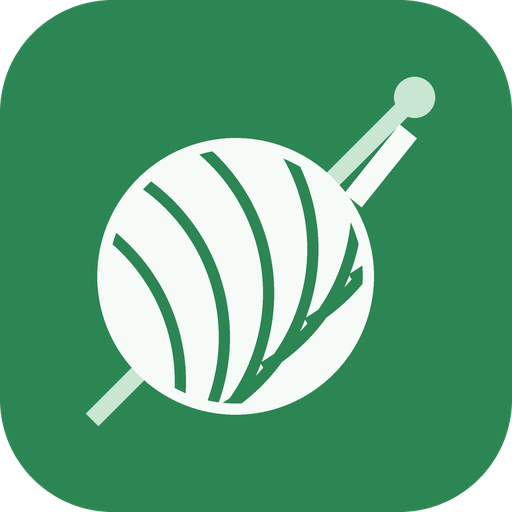
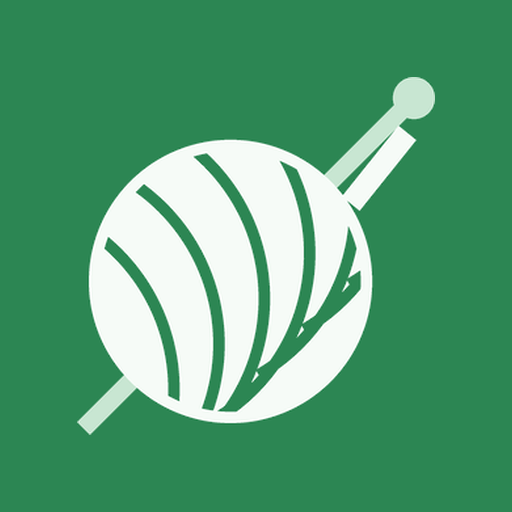
Brinde fora da hora real, pedido a partir de receita e tema escuro no app instalado
- Preço 0 é brinde: etiqueta no card e "brinde" em Sua hora. A hora real conta só
  peças vendidas e entregues e mostra a base. Brindes aparecem à parte em Dinheiro e Horas.
- Gráfico "Horas que faltam por peça" em barras HTML com texto em tamanho normal;
  clicar abre o pedido.
- "+ Da receita" (Painel, Fila e Receitas): numera sozinho (Lula 3, Lula 4...), cria
  várias de uma vez e o acessório junto (Chapéu Lula 3). Receitas ganharam tipo, horas,
  preço e "fazer junto"; pedidos ganharam o campo Receita; planilha com as colunas novas.
- Manifest com cores escuras (barras do sistema), ícones sem cantos transparentes,
  maskable dentro da zona segura e ícone monocromático novo. Cache atelie-7.

Claude-Session: https://claude.ai/code/session_01VY8BBaoGptddDZMF5C8UBs

diff --git a/app.js b/app.js
@@ -49,14 +49,15 @@ const NORM = {
   pedidos: (id, d) => ({id, nome: str(d.nome) || '(sem nome)', cliente: str(d.cliente), tipo: TIPOS.includes(d.tipo) ? d.tipo : 'Custom simples',
     status: STATUS.includes(d.status) ? d.status : 'Na fila', prazo: str(d.prazo), horasEst: num(d.horasEst, 0), preco: num(d.preco),
     sinal: num(d.sinal, 0), pago: d.pago === true, contato: str(d.contato), pedidoEm: str(d.pedidoEm), entregueEm: str(d.entregueEm),
-    ordem: num(d.ordem, 1e6), lixo: d.lixo === true}),
+    ordem: num(d.ordem, 1e6), receitaId: str(d.receitaId), lixo: d.lixo === true}),
   horas: (id, d) => ({id, data: str(d.data), pedidoId: str(d.pedidoId), horas: num(d.horas, 0), inicio: str(d.inicio), fim: str(d.fim), lixo: d.lixo === true}),
   compras: (id, d) => ({id, item: str(d.item) || '(sem nome)', tipo: TIPOS_COMPRA.includes(d.tipo) ? d.tipo : 'Outro', cor: str(d.cor),
     qtd: num(d.qtd, 1), precoUn: num(d.precoUn, 0), onde: str(d.onde), pedidoId: str(d.pedidoId), comprado: d.comprado === true,
     compradoEm: str(d.compradoEm), criadoEm: str(d.criadoEm), lixo: d.lixo === true}),
   estoque: (id, d) => ({id, cor: str(d.cor) || '(sem nome)', situacao: SIT.includes(d.situacao) ? d.situacao : 'Tem', ordem: num(d.ordem, 1e6), hex: /^#[0-9a-f]{6}$/i.test(str(d.hex)) ? str(d.hex).toLowerCase() : '', lixo: d.lixo === true}),
   receitas: (id, d) => ({id, personagem: str(d.personagem) || '(sem nome)', fonte: FONTES.includes(d.fonte) ? d.fonte : 'Própria', autor: str(d.autor),
-    altura: num(d.altura), arquivo: str(d.arquivo), lixo: d.lixo === true})
+    altura: num(d.altura), arquivo: str(d.arquivo), tipoPadrao: TIPOS.includes(d.tipoPadrao) ? d.tipoPadrao : 'Receita pronta',
+    horasPadrao: num(d.horasPadrao), precoPadrao: num(d.precoPadrao), acompanhaId: str(d.acompanhaId), lixo: d.lixo === true})
 };
 
 const vivos = k => S[k].filter(x => !x.lixo);
@@ -76,8 +77,9 @@ function calcP(p) {
   const recebido = preco == null ? p.sinal : (p.pago ? preco : p.sinal);
   const aReceber = preco == null ? null : (p.pago ? 0 : Math.max(0, preco - p.sinal));
   const lucro = preco == null ? null : preco - c;
-  const rph = (lucro != null && f > 0) ? lucro / f : null;
-  return {f, fechado, c, restam, sug, recebido, aReceber, lucro, rph, dias: diasAte(p.prazo), pct: p.horasEst > 0 ? Math.min(1, f / p.horasEst) : 0};
+  const brinde = preco === 0;
+  const rph = (lucro != null && f > 0 && !brinde) ? lucro / f : null;
+  return {f, fechado, c, restam, sug, recebido, aReceber, lucro, rph, brinde, dias: diasAte(p.prazo), pct: p.horasEst > 0 ? Math.min(1, f / p.horasEst) : 0};
 }
 function kpis() {
   const todos = vivos('pedidos'), at = ativosOrd(), cf = C();
@@ -95,14 +97,16 @@ function kpis() {
   const saldo = recebido - gastos;
   const hs = vivos('horas');
   const seg = new Date(); seg.setDate(seg.getDate() - ((seg.getDay() + 6) % 7)); const segIso = isoDia(seg);
-  const ent = todos.filter(p => p.status === 'Entregue');
+  const ent = todos.filter(p => p.status === 'Entregue' && p.preco > 0);
   const hEnt = ent.reduce((a, p) => a + calc.get(p.id).f, 0), lEnt = ent.reduce((a, p) => a + (calc.get(p.id).lucro || 0), 0);
+  const brs = naoCanc.filter(p => calc.get(p.id).brinde);
   return {abertos: abertos.length, horasFila: at.reduce((a, p) => a + calc.get(p.id).restam, 0), proxima: abertos[0] ? abertos[0].nome : 'Nada na fila',
     prazo: prazos[0] ? fData(prazos[0]) : 'Nenhum marcado', atrasadas, fat, recebido, gastos, saldo, pend, lucro, aReceber,
     meta: cf.metaNatal, jaTenho: cf.metaNatal ? Math.min(1, Math.max(0, saldo) / cf.metaNatal) : null,
     seFila: cf.metaNatal ? Math.min(1, Math.max(0, saldo + aReceber) / cf.metaNatal) : null,
     hTotal: hs.reduce((a, h) => a + h.horas, 0), hSemana: hs.filter(h => h.data >= segIso).reduce((a, h) => a + h.horas, 0),
-    horaReal: hEnt > 0 ? lEnt / hEnt : null};
+    horaReal: hEnt > 0 ? lEnt / hEnt : null, vendidas: ent.length, hVendidas: hEnt,
+    brindes: brs.length, custoBrindes: brs.reduce((a, p) => a + calc.get(p.id).c, 0), hBrindes: brs.reduce((a, p) => a + calc.get(p.id).f, 0)};
 }
 
 const ref = (c, id) => doc(S.fs, 'users', S.user.uid, c, id);
@@ -154,6 +158,7 @@ function formPedido(id) {
     ${campo('contato', 'Contato', inp('contato', p?.contato, 'autocomplete="off"'))}
     ${campo('tipo', 'Tipo', sel('tipo', TIPOS, p?.tipo || 'Custom simples'))}
     ${campo('status', 'Status', sel('status', STATUS, p?.status || 'Na fila'))}
+    ${campo('receitaId', 'Receita', selReceita('receitaId', p?.receitaId, 'Nenhuma'), 'full')}
     ${campo('horasEst', 'Horas estimadas', numInp('horasEst', p?.horasEst || ''))}
     ${campo('prazo', 'Prazo', inp('prazo', p?.prazo, 'type="date"'))}
     <div class="sugbox full" id="sugbox"></div>
@@ -178,7 +183,7 @@ function formPedido(id) {
       if (!d.nome.trim()) { erroModal('Dá um nome pra peça.'); return false; }
       const patch = {nome: d.nome.trim(), cliente: d.cliente.trim(), contato: d.contato.trim(), tipo: d.tipo, status: d.status,
         horasEst: num(d.horasEst, 0), prazo: d.prazo, preco: num(d.preco), sinal: num(d.sinal, 0), pago: d.pago,
-        pedidoEm: d.pedidoEm, entregueEm: d.entregueEm || (d.status === 'Entregue' ? hoje() : '')};
+        pedidoEm: d.pedidoEm, entregueEm: d.entregueEm || (d.status === 'Entregue' ? hoje() : ''), receitaId: d.receitaId || ''};
       if (novo) { patch.ordem = ordemPara(d.prio); patch.lixo = false; criar('pedidos', patch, 'Pedido adicionado'); }
       else mudar('pedidos', p.id, patch, 'Pedido salvo');
     }});
@@ -189,6 +194,93 @@ function ordemPara(v) {
   const i = at.findIndex(p => p.id === v);
   if (i < 0) return at[at.length - 1].ordem + 1;
   return at[i + 1] ? (at[i].ordem + at[i + 1].ordem) / 2 : at[i].ordem + 1;
+}
+function ordensPara(v, k) {
+  const at = ativosOrd(); if (!at.length) return Array.from({length: k}, (_, j) => j + 1);
+  let a, b; const i = at.findIndex(p => p.id === v);
+  if (v === 'topo') { b = at[0].ordem; a = b - 1; }
+  else if (i < 0) { a = at[at.length - 1].ordem; b = a + k + 1; }
+  else { a = at[i].ordem; b = at[i + 1] ? at[i + 1].ordem : a + k + 1; }
+  const st = (b - a) / (k + 1); return Array.from({length: k}, (_, j) => a + st * (j + 1));
+}
+
+const escRe = v => v.replace(/[.*+?^${}()|[\]\\]/g, '\\$&');
+const rec = id => id ? S.receitas.find(r => r.id === id && !r.lixo) : null;
+const recsOrd = () => vivos('receitas').sort((a, b) => a.personagem.localeCompare(b.personagem));
+const reNome = r => new RegExp('^' + escRe(semAcento(r.personagem)) + '\\s*(#)?\\s*(\\d+)$');
+const nomeNum = (r, n, hash) => r.personagem + (hash ? ' #' : ' ') + n;
+const daReceita = r => { const re = reNome(r); return vivos('pedidos').filter(p => p.receitaId === r.id || re.test(semAcento(p.nome))); };
+function proxNum(r) {
+  const re = reNome(r); let mx = 0, hash = false;
+  for (const p of vivos('pedidos')) { const m = re.exec(semAcento(p.nome)); if (m) { mx = Math.max(mx, +m[2]); if (m[1]) hash = true; } }
+  return {n: mx + 1, hash};
+}
+function statsReceita(r) {
+  const ps = daReceita(r), prontos = ps.filter(p => ['Pronto', 'Entregue'].includes(p.status) && feitas(p) > 0);
+  const media = prontos.length ? prontos.reduce((a, p) => a + feitas(p), 0) / prontos.length : null;
+  const comPreco = ps.filter(p => p.preco != null).sort((a, b) => (b.pedidoEm || '').localeCompare(a.pedidoEm || '') || b.ordem - a.ordem);
+  const ultEst = ps.filter(p => p.horasEst > 0).sort((a, b) => (b.pedidoEm || '').localeCompare(a.pedidoEm || ''))[0];
+  return {total: ps.length, prontos: prontos.length, media, ultPreco: comPreco[0] ? comPreco[0].preco : null,
+    horas: r.horasPadrao ?? (media != null ? Math.round(media * 10) / 10 : (ultEst ? ultEst.horasEst : null)),
+    preco: r.precoPadrao ?? (comPreco[0] ? comPreco[0].preco : null)};
+}
+function selReceita(id, v, vazio) {
+  return `<select id="${id}" name="${id}">${vazio ? `<option value="">${esc(vazio)}</option>` : ''}${recsOrd().map(r => `<option value="${esc(r.id)}"${r.id === v ? ' selected' : ''}>${esc(r.personagem)}</option>`).join('')}</select>`;
+}
+function planoReceita(r, q, junto) {
+  const {n, hash} = proxNum(r), ac = junto && r.acompanhaId ? rec(r.acompanhaId) : null;
+  const usados = new Set(vivos('pedidos').map(p => semAcento(p.nome)));
+  const acP = ac ? proxNum(ac) : null, out = [];
+  for (let j = 0; j < q; j++) {
+    out.push({r, nome: nomeNum(r, n + j, hash), principal: true});
+    if (ac) {
+      let nm = nomeNum(ac, n + j, acP.hash || hash);
+      if (usados.has(semAcento(nm))) { nm = nomeNum(ac, acP.n, acP.hash || hash); acP.n++; }
+      usados.add(semAcento(nm)); out.push({r: ac, nome: nm, principal: false});
+    }
+  }
+  return out;
+}
+function formDaReceita(rid) {
+  const rs = recsOrd();
+  if (!rs.length) { toast('Cria a receita primeiro (aba Receitas, + Receita).', true); location.hash = 'receitas'; return; }
+  const r0 = rec(rid) || rs[0], st0 = statsReceita(r0), at = ativosOrd();
+  const corpo = `<div class="fgrid">
+    ${campo('rec', 'Receita', selReceita('rec', r0.id), 'full')}
+    <div class="sugbox full" id="recprev"></div>
+    ${campo('qtd', 'Quantas', numInp('qtd', 1, 'min="1" max="50" step="1" inputmode="numeric"'))}
+    ${campo('tipo', 'Tipo', sel('tipo', TIPOS, r0.tipoPadrao))}
+    <label class="chk full" id="juntoBox"><input type="checkbox" name="junto" checked> <span id="juntoTxt"></span></label>
+    ${campo('cliente', 'Cliente', inp('cliente', '', 'autocomplete="off" placeholder="vazio = pronta entrega"'))}
+    ${campo('contato', 'Contato', inp('contato', '', 'autocomplete="off"'))}
+    ${campo('horasEst', 'Horas estimadas (cada)', numInp('horasEst', st0.horas ?? ''))}
+    ${campo('prazo', 'Prazo', inp('prazo', '', 'type="date"'))}
+    ${campo('preco', 'Preço (cada, R$)', numInp('preco', st0.preco ?? ''))}
+    ${campo('sinal', 'Sinal recebido (cada, R$)', numInp('sinal', ''))}
+    ${campo('prio', 'Posição na fila', `<select id="prio" name="prio"><option value="fim">No fim da fila</option><option value="topo">No topo (prioridade máxima)</option>${at.map(a => `<option value="${esc(a.id)}">Depois de: ${esc(a.nome)}</option>`).join('')}</select>`, 'full')}
+  </div>`;
+  let ultRec = r0.id;
+  abrirModal('Novo pedido de receita', corpo, {salvarTxt: 'Adicionar na fila',
+    onInput: f => {
+      const r = rec(f.rec.value); if (!r) return;
+      if (r.id !== ultRec) { ultRec = r.id; const st = statsReceita(r); f.horasEst.value = st.horas ?? ''; f.preco.value = st.preco ?? ''; f.tipo.value = r.tipoPadrao; f.junto.checked = true; }
+      const ac = r.acompanhaId ? rec(r.acompanhaId) : null;
+      $('#juntoBox').hidden = !ac; $('#juntoTxt').textContent = ac ? `Fazer junto: ${ac.personagem} (mesmo número, ${ac.precoPadrao != null ? fR(ac.precoPadrao) : 'preço a definir'})` : '';
+      const q = Math.max(1, Math.min(50, Math.round(num(f.qtd.value, 1)))), plano = planoReceita(r, q, f.junto.checked);
+      const st = statsReceita(r);
+      const info = st.prontos ? `média de ${fH(st.media)} nas ${st.prontos} ${plural(st.prontos, 'já feita', 'já feitas')}` : (st.total ? `${st.total} ${plural(st.total, 'pedido', 'pedidos')} dessa receita até agora` : 'primeira dessa receita');
+      $('#recprev').innerHTML = `Vai criar: <b>${plano.map(x => esc(x.nome)).join(', ')}</b><br><span class="muted small">${info}</span>`;
+    },
+    onOk: d => {
+      const r = rec(d.rec); if (!r) { erroModal('Escolhe a receita.'); return false; }
+      const q = Math.round(num(d.qtd, 1)); if (!(q >= 1 && q <= 50)) { erroModal('Quantidade entre 1 e 50.'); return false; }
+      const plano = planoReceita(r, q, d.junto && !!r.acompanhaId), ords = ordensPara(d.prio, plano.length), base = {cliente: d.cliente.trim(), contato: d.contato.trim(), prazo: d.prazo, status: 'Na fila', pago: false, pedidoEm: hoje(), entregueEm: '', lixo: false};
+      plano.forEach((x, j) => {
+        const st = x.principal ? null : statsReceita(x.r);
+        const it = x.principal ? {tipo: d.tipo, horasEst: num(d.horasEst, 0), preco: num(d.preco), sinal: num(d.sinal, 0)} : {tipo: x.r.tipoPadrao, horasEst: st.horas || 0, preco: st.preco, sinal: 0};
+        criar('pedidos', {...base, ...it, nome: x.nome, receitaId: x.r.id, ordem: ords[j]}, j === plano.length - 1 ? (plano.length === 1 ? `${x.nome} na fila` : `${plano.length} peças na fila`) : '');
+      });
+    }});
 }
 function formHoras(pid, hid) {
   const h = hid ? S.horas.find(x => x.id === hid) : null;
@@ -280,11 +372,17 @@ function formReceita(rid) {
   const r = rid ? S.receitas.find(x => x.id === rid) : null;
   const corpo = `<div class="fgrid">${campo('personagem', 'Personagem', inp('personagem', r?.personagem, 'required autocomplete="off"'), 'full')}
     ${campo('fonte', 'Fonte', sel('fonte', FONTES, r?.fonte || 'Própria'))}${campo('autor', 'Autor', inp('autor', r?.autor ?? 'Você'))}
-    ${campo('altura', 'Altura (cm)', numInp('altura', r?.altura))}${campo('arquivo', 'Arquivo ou link', inp('arquivo', r?.arquivo))}</div>`;
+    ${campo('altura', 'Altura (cm)', numInp('altura', r?.altura))}${campo('arquivo', 'Arquivo ou link', inp('arquivo', r?.arquivo))}
+    <p class="hint full">Pro botão <b>+ Da receita</b>: ele numera sozinho (Lula 1, Lula 2...) e preenche com o que estiver abaixo. Vazio = usa a média das peças já feitas.</p>
+    ${campo('tipoPadrao', 'Tipo', sel('tipoPadrao', TIPOS, r?.tipoPadrao || 'Receita pronta'))}
+    ${campo('horasPadrao', 'Horas por peça', numInp('horasPadrao', r?.horasPadrao, r ? `placeholder="${(() => { const st = statsReceita(r); return st.media != null ? 'média: ' + fN(st.media) : ''; })()}"` : ''))}
+    ${campo('precoPadrao', 'Preço (R$)', numInp('precoPadrao', r?.precoPadrao, 'placeholder="0 = brinde"'))}
+    ${campo('acompanhaId', 'Fazer junto (acessório)', `<select id="acompanhaId" name="acompanhaId"><option value="">Nada</option>${recsOrd().filter(x => !r || x.id !== r.id).map(x => `<option value="${esc(x.id)}"${r && x.id === r.acompanhaId ? ' selected' : ''}>${esc(x.personagem)}</option>`).join('')}</select>`)}</div>`;
   const extra = r ? `<button type="button" class="btn bad" data-a="excluir" data-col="receitas" data-id="${esc(r.id)}">Excluir</button>` : '';
   abrirModal(r ? 'Editar receita' : 'Nova receita', corpo, {extra, onOk: d => {
     if (!d.personagem.trim()) { erroModal('Diz o personagem.'); return false; }
-    const patch = {personagem: d.personagem.trim(), fonte: d.fonte, autor: d.autor.trim(), altura: num(d.altura), arquivo: d.arquivo.trim()};
+    const patch = {personagem: d.personagem.trim(), fonte: d.fonte, autor: d.autor.trim(), altura: num(d.altura), arquivo: d.arquivo.trim(),
+      tipoPadrao: d.tipoPadrao, horasPadrao: num(d.horasPadrao), precoPadrao: num(d.precoPadrao), acompanhaId: d.acompanhaId || ''};
     if (r) mudar('receitas', r.id, patch, 'Receita salva'); else { patch.lixo = false; criar('receitas', patch, 'Receita adicionada'); }
   }});
 }
@@ -373,28 +471,28 @@ function vTimer() {
 function kv(linhas) { return `<dl class="kv">${linhas.map(([k, v, c]) => `<dt>${k}</dt><dd class="${c || ''}">${v}</dd>`).join('')}</dl>`; }
 function barra(frac, rot) { return `<div class="meta-bar"><div class="head small"><span>${rot}</span><span class="sp"></span><b>${frac == null ? '–' : fP(frac)}</b></div><div class="bar"><i style="width:${Math.round((frac || 0) * 100)}%"></i></div></div>`; }
 function grafico() {
-  const rows = ativosOrd().map(p => ({n: p.nome, v: calcP(p).restam})).filter(r => r.v > 0).sort((a, b) => b.v - a.v);
+  const rows = ativosOrd().map(p => ({id: p.id, n: p.nome, v: calcP(p).restam})).filter(r => r.v > 0).sort((a, b) => b.v - a.v);
   if (!rows.length) return '<p class="muted">Nada pra fazer na fila.</p>';
-  const W = 560, rh = 34, lab = 180, top = 4, H = top + rows.length * rh + 4, max = Math.max(...rows.map(r => r.v)), bw = W - lab - 64;
-  let s = `<svg viewBox="0 0 ${W} ${H}" class="chart" role="img" aria-label="Horas que faltam por peça">`;
-  rows.forEach((r, i) => { const y = top + i * rh, w = Math.max(4, bw * r.v / max), nm = r.n.length > 24 ? r.n.slice(0, 23) + '…' : r.n;
-    s += `<text x="${lab - 10}" y="${y + 22}" text-anchor="end" class="c-lab">${esc(nm)}</text><rect x="${lab}" y="${y + 8}" width="${w}" height="20" rx="4" class="c-bar"/><text x="${lab + w + 8}" y="${y + 22}" class="c-val">${esc(fH(r.v))}</text>`; });
-  return s + '</svg>';
+  const max = Math.max(...rows.map(r => r.v)), tot = rows.reduce((a, r) => a + r.v, 0);
+  return `<div class="hbars">${rows.map(r => `<div class="hb" data-a="editPedido" data-id="${esc(r.id)}" title="${esc(r.n)}: faltam ${esc(fH(r.v))}"><span class="hb-n">${esc(r.n)}</span><span class="hb-t"><i style="width:${Math.max(3, Math.round(r.v / max * 100))}%"></i></span><b class="hb-v">${esc(fH(r.v))}</b></div>`).join('')}</div>
+    <p class="small muted hb-tot">${rows.length} ${plural(rows.length, 'peça', 'peças')} · ${fH(tot)} no total</p>`;
 }
 function vPainel() {
   const k = kpis();
   return `<section class="acoes" aria-label="Atalhos">
     <button class="acao pri" data-a="nav" data-v="timer">Timer<span>${rodando() ? 'rodando em ' + esc(nomePed(S.timer.pedidoId)) : 'escolhe a peça e aperta'}</span></button>
     <button class="acao" data-a="novoPedido">+ Pedido<span>entra na fila</span></button>
+    <button class="acao" data-a="pedidoReceita">+ Da receita<span>numera sozinho</span></button>
     <button class="acao" data-a="novaCompra">+ Compra<span>ou gasto</span></button>
     <button class="acao" data-a="nav" data-v="estoque">Estoque<span>${vivos('estoque').filter(e => ['Pouco', 'Acabou'].includes(e.situacao)).length} cores acabando</span></button>
   </section>
   <div class="grid2">
     <section class="card"><h2>Fila</h2>${kv([['Pedidos em aberto', k.abertos], ['Horas de trabalho na fila', fH(k.horasFila)], ['Próxima peça', esc(k.proxima)], ['Prazo mais perto', k.prazo], ['Peças atrasadas', k.atrasadas, k.atrasadas > 0 ? 'bad' : '']])}</section>
     <section class="card"><h2>Horas que faltam por peça</h2>${grafico()}</section>
-    <section class="card"><h2>Dinheiro</h2>${kv([['Faturamento previsto', fR(k.fat)], ['Já recebido', fR(k.recebido)], ['Gastos (compras feitas)', fR(k.gastos)], ['Saldo em caixa', fR(k.saldo), k.saldo < 0 ? 'bad' : 'good'], ['Compras pendentes', fR(k.pend)], ['Lucro previsto', fR(k.lucro)]])}</section>
+    <section class="card"><h2>Dinheiro</h2>${kv([['Faturamento previsto', fR(k.fat)], ['Já recebido', fR(k.recebido)], ['Gastos (compras feitas)', fR(k.gastos)], ['Saldo em caixa', fR(k.saldo), k.saldo < 0 ? 'bad' : 'good'], ['Compras pendentes', fR(k.pend)], ['Lucro previsto', fR(k.lucro)], ...(k.brindes ? [[`Brindes (${k.brindes} ${plural(k.brindes, 'peça', 'peças')}, custo)`, fR(-k.custoBrindes), 'bad']] : [])])}</section>
     <section class="card"><h2>Natal</h2>${kv([['Meta', k.meta ? fR(k.meta) : 'coloca na Config'], ['Já tenho', fR(Math.max(0, k.saldo))], ['Se a fila toda pagar', fR(Math.max(0, k.saldo + k.aReceber)), 'good']])}${k.meta ? `${barra(k.jaTenho, 'Já tenho')}${barra(k.seFila, 'Se a fila toda pagar')}` : ''}</section>
-    <section class="card"><h2>Horas</h2>${kv([['Trabalhadas no total', fH(k.hTotal)], ['Nesta semana', fH(k.hSemana)], ['Sua hora real (peças entregues)', k.horaReal == null ? 'sem entregas ainda' : fR(k.horaReal) + '/h', k.horaReal != null && k.horaReal < 10 ? 'bad' : '']])}</section>
+    <section class="card"><h2>Horas</h2>${kv([['Trabalhadas no total', fH(k.hTotal)], ['Nesta semana', fH(k.hSemana)], ['Sua hora real (peças vendidas e entregues)', k.horaReal == null ? 'sem vendas entregues ainda' : fR(k.horaReal) + '/h', k.horaReal != null && k.horaReal < 10 ? 'bad' : ''], ...(k.vendidas ? [['Base do cálculo', `${k.vendidas} ${plural(k.vendidas, 'peça', 'peças')} · ${fH(k.hVendidas)}`]] : []), ...(k.brindes ? [['Horas em brindes (fora da conta)', fH(k.hBrindes)]] : [])])}
+      ${k.vendidas && k.hVendidas < 3 ? '<p class="hint">Com poucas horas vendidas, esse número ainda pula bastante.</p>' : ''}</section>
   </div>`;
 }
 function cardPedido(p, pos, primeiro, ultimo) {
@@ -406,7 +504,7 @@ function cardPedido(p, pos, primeiro, ultimo) {
   return `<article class="ped" data-s="${esc(p.status)}">
     <div class="ped-top">${pos ? `<span class="pos">${pos}º</span>` : ''}<h3 data-a="editPedido" data-id="${esc(p.id)}" tabindex="0">${esc(p.nome)}</h3>
       <select class="status ${ST_CLS[p.status]}" data-c="status" data-id="${esc(p.id)}" aria-label="Status de ${esc(p.nome)}">${opts(STATUS, p.status)}</select></div>
-    <div class="ped-meta"><span class="pill ${TIPO_CLS[p.tipo]}">${esc(p.tipo)}</span>${p.cliente ? `<span>${esc(p.cliente)}</span>` : ''}${p.contato ? `<span>${esc(p.contato)}</span>` : ''}${prazo}</div>
+    <div class="ped-meta"><span class="pill ${TIPO_CLS[p.tipo]}">${esc(p.tipo)}</span>${p.preco === 0 ? '<span class="pill t-acessorio">Brinde</span>' : ''}${p.cliente ? `<span>${esc(p.cliente)}</span>` : ''}${p.contato ? `<span>${esc(p.contato)}</span>` : ''}${prazo}</div>
     <div class="prog"><div class="bar"><i style="width:${Math.round(c.pct * 100)}%"></i></div><span class="num">${fH(c.f)} de ${fH(p.horasEst)}${c.restam > 0 ? ' · faltam ' + fH(c.restam) : ''}</span></div>
     <div class="nums">
       <div><small>Preço</small><b>${p.preco == null ? 'a definir' : fR(p.preco)}</b></div>
@@ -414,7 +512,7 @@ function cardPedido(p, pos, primeiro, ultimo) {
       <div><small>Sinal</small><b>${fR(p.sinal)}</b></div>
       <div><small>A receber</small><b>${fR(c.aReceber)}</b></div>
       <div class="${c.lucro != null && c.lucro < 0 ? 'bad' : ''}"><small>Lucro</small><b>${fR(c.lucro)}</b></div>
-      <div class="${c.rph != null && c.rph < 10 ? 'bad' : ''}"><small>Sua hora</small><b>${c.rph == null ? '–' : fR(c.rph) + '/h'}</b></div>
+      <div class="${c.rph != null && c.rph < 10 ? 'bad' : ''}"><small>Sua hora</small><b>${c.brinde ? 'brinde' : c.rph == null ? '–' : fR(c.rph) + '/h'}</b></div>
     </div>
     <div class="ped-acts">
       <label class="chk"><input type="checkbox" data-c="pago" data-id="${esc(p.id)}" ${p.pago ? 'checked' : ''}> Pago</label>
@@ -426,7 +524,7 @@ function cardPedido(p, pos, primeiro, ultimo) {
 }
 function vFila() {
   const at = ativosOrd(), saiu = vivos('pedidos').filter(p => SAIU.includes(p.status)).sort((a, b) => (b.entregueEm || '').localeCompare(a.entregueEm || ''));
-  return `<div class="head"><h2>Fila (${at.length})</h2><span class="sp"></span><button class="btn pri" data-a="novoPedido">+ Pedido</button></div>
+  return `<div class="head"><h2>Fila (${at.length})</h2><span class="sp"></span><button class="btn" data-a="pedidoReceita">+ Da receita</button><button class="btn pri" data-a="novoPedido">+ Pedido</button></div>
   <div class="lista">${at.length ? at.map((p, i) => cardPedido(p, i + 1, i === 0, i === at.length - 1)).join('') : '<div class="empty">Fila vazia. Toque em + Pedido.</div>'}</div>
   ${saiu.length ? `<details ${S.verSaiu ? 'open' : ''} data-t="verSaiu"><summary>Entregues e cancelados (${saiu.length})</summary><div class="lista" style="margin-top:10px">${saiu.map(p => cardPedido(p, 0)).join('')}</div></details>` : ''}`;
 }
@@ -489,8 +587,11 @@ function vReceitas() {
   const rs = vivos('receitas').sort((a, b) => a.personagem.localeCompare(b.personagem));
   const cls = {'Própria': 't-pronta', 'A criar': 'st-fio', 'Comprada': 't-medio', 'Grátis': 't-simples'};
   return `<div class="head"><h2>Receitas</h2><span class="sp"></span><button class="btn pri" data-a="novaReceita">+ Receita</button></div>
-  <div class="card">${rs.length ? rs.map(r => `<div class="row"><span class="grow"><b>${esc(r.personagem)}</b><br><span class="small muted">${esc(r.autor)}${r.altura ? ' · ' + fN(r.altura) + ' cm' : ''}${r.arquivo ? ' · ' + esc(r.arquivo) : ''}</span></span>
-    <span class="pill ${cls[r.fonte]}">${esc(r.fonte)}</span><button class="btn sm" data-a="editReceita" data-id="${esc(r.id)}">Editar</button></div>`).join('') : '<div class="empty">Nenhuma receita ainda.</div>'}</div>`;
+  <div class="card">${rs.length ? rs.map(r => { const st = statsReceita(r), ac = rec(r.acompanhaId), px = proxNum(r);
+    const linha2 = [esc(r.autor), r.altura ? fN(r.altura) + ' cm' : '', r.arquivo ? esc(r.arquivo) : ''].filter(Boolean).join(' · ');
+    const linha3 = [st.total ? `${st.total} ${plural(st.total, 'pedido', 'pedidos')}` : 'nenhum pedido ainda', st.media != null ? 'média ' + fH(st.media) : '', st.preco != null ? (st.preco === 0 ? 'brinde' : fR(st.preco)) : '', ac ? 'junto: ' + esc(ac.personagem) : '', 'próximo: ' + esc(nomeNum(r, px.n, px.hash))].filter(Boolean).join(' · ');
+    return `<div class="row"><span class="grow"><b>${esc(r.personagem)}</b><br><span class="small muted">${linha2}${linha2 ? '<br>' : ''}${linha3}</span></span>
+    <span class="pill ${cls[r.fonte]}">${esc(r.fonte)}</span><button class="btn sm" data-a="editReceita" data-id="${esc(r.id)}">Editar</button><button class="btn sm pri" data-a="pedidoReceita" data-id="${esc(r.id)}">+ Pedido</button></div>`; }).join('') : '<div class="empty">Nenhuma receita ainda.</div>'}</div>`;
 }
 function vConfig() {
   const cf = C(), lixo = COLS.flatMap(c => S[c].filter(x => x.lixo).map(x => ({c, x})));
@@ -578,7 +679,7 @@ document.addEventListener('click', e => {
     nav: () => { location.hash = b.dataset.v; },
     novoPedido: () => formPedido(), editPedido: () => formPedido(id), lancarHoras: () => formHoras(id), editHoras: () => formHoras(null, id),
     novaCompra: () => formCompra(), editCompra: () => formCompra(id), novaCor: () => formCor(), editCor: () => formCor(id),
-    novaReceita: () => formReceita(), editReceita: () => formReceita(id),
+    novaReceita: () => formReceita(), editReceita: () => formReceita(id), pedidoReceita: () => formDaReceita(id),
     tmPausa: () => timerPausa(), tmEscolher: () => { S.tp = id; render(); }, tmTrocar: () => { S.tp = 'escolher'; render(); },
     tmToggle: () => { if (rodando() && S.timer.pedidoId === id) timerPausa(); else timerStart(id); },
     tmTerminei: () => terminei(id), tmAbrir: () => { S.tp = id; if (location.hash === '#timer') render(); else location.hash = 'timer'; },
@@ -672,12 +773,12 @@ function planilha() {
   if (!window.XLSX) { toast('A biblioteca da planilha não carregou. Abre o app uma vez com internet.', true); return; }
   const X = window.XLSX, wb = X.utils.book_new(), add = (n, rows) => X.utils.book_append_sheet(wb, X.utils.aoa_to_sheet(rows), n);
   const at = ativosOrd(), todos = [...at, ...vivos('pedidos').filter(p => SAIU.includes(p.status))];
-  add('Fila', [['Ordem', 'Peça', 'Cliente', 'Tipo', 'Status', 'Prazo', 'Horas est.', 'Horas feitas', 'Restam (h)', 'Sugerido', 'Preço', 'Sinal', 'Pago', 'A receber', 'Lucro', 'R$/h real', 'Contato', 'Pedido em', 'Entregue em'],
-    ...todos.map(p => { const c = calcP(p), i = at.indexOf(p); return [i >= 0 ? i + 1 : '', p.nome, p.cliente, p.tipo, p.status, p.prazo, p.horasEst, c.f, c.restam, c.sug, p.preco, p.sinal, p.pago ? 'Sim' : 'Não', c.aReceber, c.lucro, c.rph == null ? '' : Math.round(c.rph * 100) / 100, p.contato, p.pedidoEm, p.entregueEm]; })]);
+  add('Fila', [['Ordem', 'Peça', 'Cliente', 'Tipo', 'Status', 'Prazo', 'Horas est.', 'Horas feitas', 'Restam (h)', 'Sugerido', 'Preço', 'Sinal', 'Pago', 'A receber', 'Lucro', 'R$/h real', 'Contato', 'Pedido em', 'Entregue em', 'Receita'],
+    ...todos.map(p => { const c = calcP(p), i = at.indexOf(p); return [i >= 0 ? i + 1 : '', p.nome, p.cliente, p.tipo, p.status, p.prazo, p.horasEst, c.f, c.restam, c.sug, p.preco, p.sinal, p.pago ? 'Sim' : 'Não', c.aReceber, c.lucro, c.rph == null ? '' : Math.round(c.rph * 100) / 100, p.contato, p.pedidoEm, p.entregueEm, rec(p.receitaId)?.personagem || '']; })]);
   add('Horas', [['Data', 'Peça', 'Horas', 'Início', 'Fim'], ...vivos('horas').sort((a, b) => a.data.localeCompare(b.data)).map(h => [h.data, nomePed(h.pedidoId), h.horas, h.inicio, h.fim])]);
   add('Compras', [['Item', 'Tipo', 'Cor', 'Qtd', 'Preço un.', 'Total', 'Pra', 'Onde', 'Comprado'], ...vivos('compras').map(c => [c.item, c.tipo, c.cor, c.qtd, c.precoUn, c.qtd * c.precoUn, nomePed(c.pedidoId), c.onde, c.comprado ? 'Sim' : 'Não'])]);
   add('Estoque', [['Cor', 'Situação'], ...vivos('estoque').map(e => [e.cor, e.situacao])]);
-  add('Receitas', [['Personagem', 'Fonte', 'Autor', 'Altura (cm)', 'Arquivo'], ...vivos('receitas').map(r => [r.personagem, r.fonte, r.autor, r.altura, r.arquivo])]);
+  add('Receitas', [['Personagem', 'Fonte', 'Autor', 'Altura (cm)', 'Arquivo', 'Tipo', 'Horas por peça', 'Preço', 'Faz junto', 'Feitos', 'Média de horas'], ...vivos('receitas').map(r => { const st = statsReceita(r); return [r.personagem, r.fonte, r.autor, r.altura, r.arquivo, r.tipoPadrao, r.horasPadrao, r.precoPadrao, rec(r.acompanhaId)?.personagem || '', st.total, st.media == null ? '' : Math.round(st.media * 100) / 100]; })]);
   const cf = C(); add('Config', [['Parâmetro', 'Valor'], ['Valor da hora', cf.valorHora], ['Preço do novelo', cf.precoNovelo], ['Miudezas por boneco', cf.miudezas], ['Desconto família', cf.descontoFamilia], ['Meta do Natal', cf.metaNatal]]);
   baixar(`atelie-${hoje()}.xlsx`, X.write(wb, {type: 'array', bookType: 'xlsx'}), 'application/vnd.openxmlformats-officedocument.spreadsheetml.sheet');
 }

diff --git a/index.html b/index.html
@@ -84,7 +84,7 @@ main{max-width:1012px;margin:0 auto;padding:24px 16px 48px;display:flex;flex-dir
 .icon{border:1px solid var(--btn-bd);background:var(--btn);border-radius:6px;width:28px;height:28px;cursor:pointer;display:inline-grid;place-items:center;font-weight:600}
 .icon:hover{background:var(--btn-hover)}
 .icon:disabled{opacity:.4;cursor:default}
-.acoes{display:grid;grid-template-columns:repeat(4,1fr);gap:12px}
+.acoes{display:grid;grid-template-columns:repeat(5,1fr);gap:12px}
 .acao{background:var(--surface);border:1px solid var(--line);border-radius:6px;padding:12px 16px;cursor:pointer;text-align:left;display:flex;flex-direction:column;gap:2px;font-weight:600;font-size:14px;box-shadow:var(--shadow)}
 .acao span{font-weight:400;font-size:12px;color:var(--muted)}
 .acao:hover{border-color:var(--muted);background:var(--subtle)}
@@ -106,6 +106,14 @@ main{max-width:1012px;margin:0 auto;padding:24px 16px 48px;display:flex;flex-dir
 .chart .c-lab{fill:var(--muted);font-size:13px;font-family:var(--font)}
 .chart .c-val{fill:var(--ink);font-size:13px;font-weight:600;font-family:var(--font)}
 .chart .c-bar{fill:var(--accent-fg)}
+.hbars{display:grid;grid-template-columns:minmax(0,max-content) minmax(80px,1fr) auto;gap:10px 12px;align-items:center;font-size:14px}
+.hb{display:contents;cursor:pointer}
+.hb-n{overflow:hidden;text-overflow:ellipsis;white-space:nowrap;max-width:22ch;color:var(--ink)}
+.hb-t{height:14px;background:var(--gray-soft);border-radius:7px;overflow:hidden}
+.hb-t i{display:block;height:100%;background:var(--accent-fg);border-radius:7px}
+.hb-v{font-variant-numeric:tabular-nums;font-weight:600;text-align:right;white-space:nowrap}
+.hb:hover .hb-n{text-decoration:underline}
+.hb-tot{margin:0}
 .pill{display:inline-block;border-radius:2em;padding:0 7px;font-size:12px;font-weight:500;line-height:18px;white-space:nowrap;border:1px solid transparent}
 .t-pronta{background:var(--accent-soft);color:var(--accent-fg);border-color:var(--accent-bd)}
 .t-simples{background:var(--blue-soft);color:var(--blue);border-color:var(--blue-bd)}
@@ -220,6 +228,7 @@ code{font-family:var(--mono);font-size:85%;background:var(--gray-soft);padding:2
 label.btn{display:inline-block}
 @media (max-width:640px){
   .acoes{grid-template-columns:1fr 1fr}
+  .acao.pri{grid-column:span 2}
   .fgrid{grid-template-columns:1fr}
   .grid2{grid-template-columns:1fr}
   main{padding-top:16px}

diff --git a/sw.js b/sw.js
@@ -1,5 +1,5 @@
-const V = 'atelie-5';
-const BASE = ['./', 'index.html', 'app.js', 'cfg.js', 'manifest.webmanifest', 'icon-192.png', 'icon-512.png', 'apple-touch-icon.png', 'icon-maskable-512.png'];
+const V = 'atelie-7';
+const BASE = ['./', 'index.html', 'app.js', 'cfg.js', 'manifest.webmanifest', 'icon-192.png', 'icon-512.png', 'apple-touch-icon.png', 'icon-maskable-512.png', 'icon-mono-512.png'];
 const EXT = /^https:\/\/(www\.gstatic\.com\/firebasejs\/|cdnjs\.cloudflare\.com\/|fonts\.googleapis\.com\/|fonts\.gstatic\.com\/)/;
 
 self.addEventListener('install', e => {

diff --git a/README.md b/README.md
@@ -29,11 +29,11 @@ Tudo fica em `users/<seu uid>/` no Firestore:
 
 | Caminho | O que é |
 | --- | --- |
-| `pedidos/<id>` | nome, cliente, contato, tipo, status, prazo, horasEst, preco, sinal, pago, ordem, pedidoEm, entregueEm, lixo |
+| `pedidos/<id>` | nome, cliente, contato, tipo, status, prazo, horasEst, preco (0 = brinde), sinal, pago, ordem, pedidoEm, entregueEm, receitaId, lixo |
 | `horas/<id>` | pedidoId, data, horas, inicio, fim, lixo |
 | `compras/<id>` | item, tipo, cor, qtd, precoUn, pedidoId (vazio = estoque), onde, comprado, compradoEm, lixo |
 | `estoque/<id>` | cor, situacao, ordem, hex (cor de verdade, ex. `#c0392b`), lixo |
-| `receitas/<id>` | personagem, fonte, autor, altura, arquivo, lixo |
+| `receitas/<id>` | personagem, fonte, autor, altura, arquivo, tipoPadrao, horasPadrao, precoPadrao, acompanhaId (receita feita junto, ex. o chapéu), lixo |
 | `meta/config` | valorHora, precoNovelo, miudezas, descontoFamilia, metaNatal |
 | `meta/timer` | pedidoId, inicio (timer rodando; cada pausa vira uma sessão em `horas`) |
 
